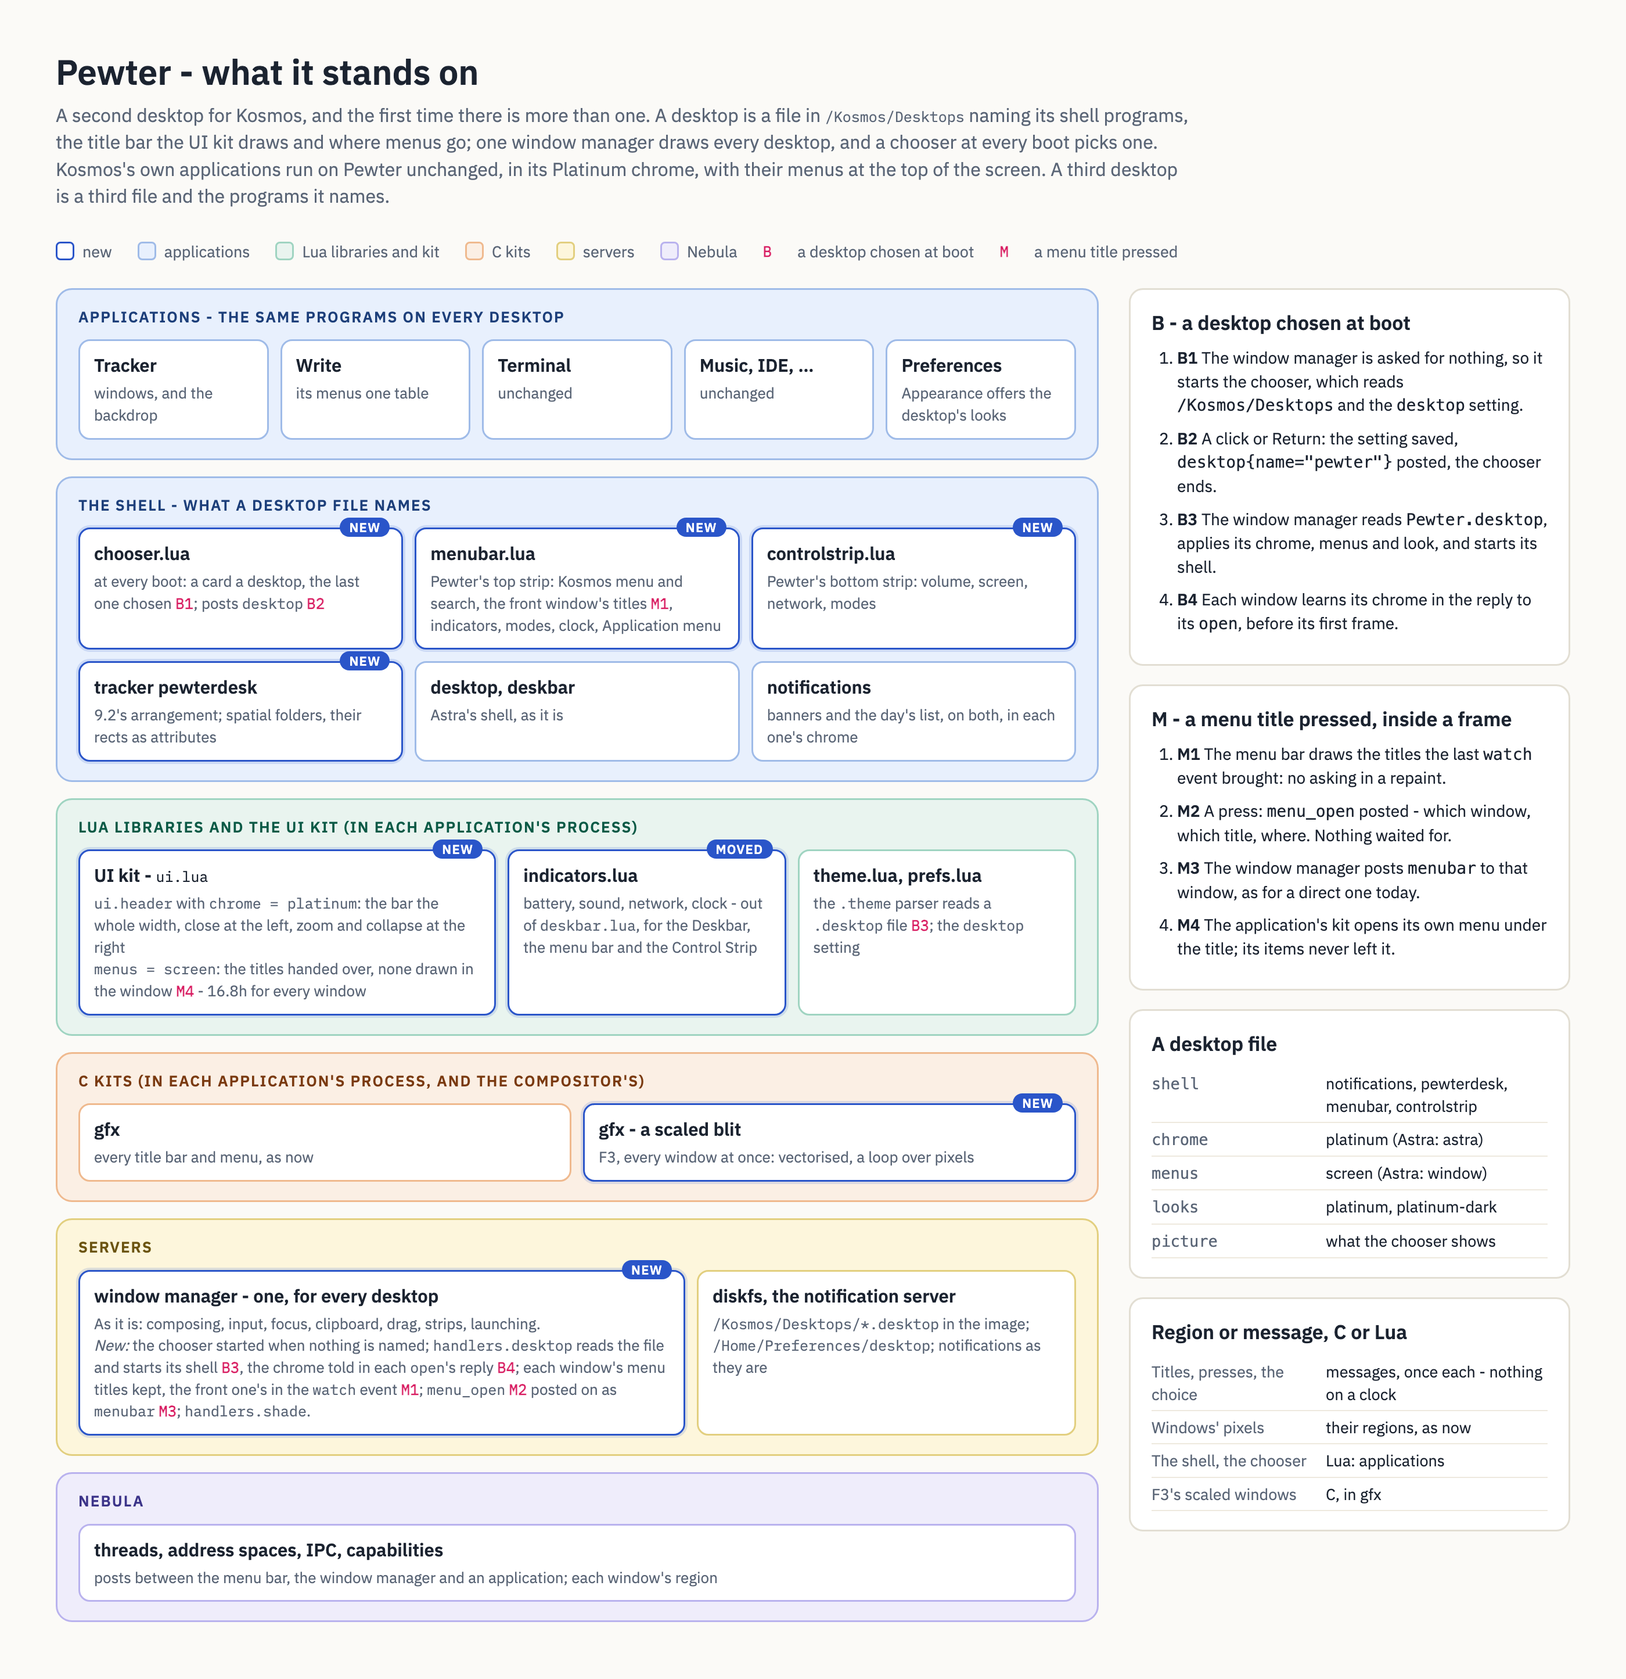
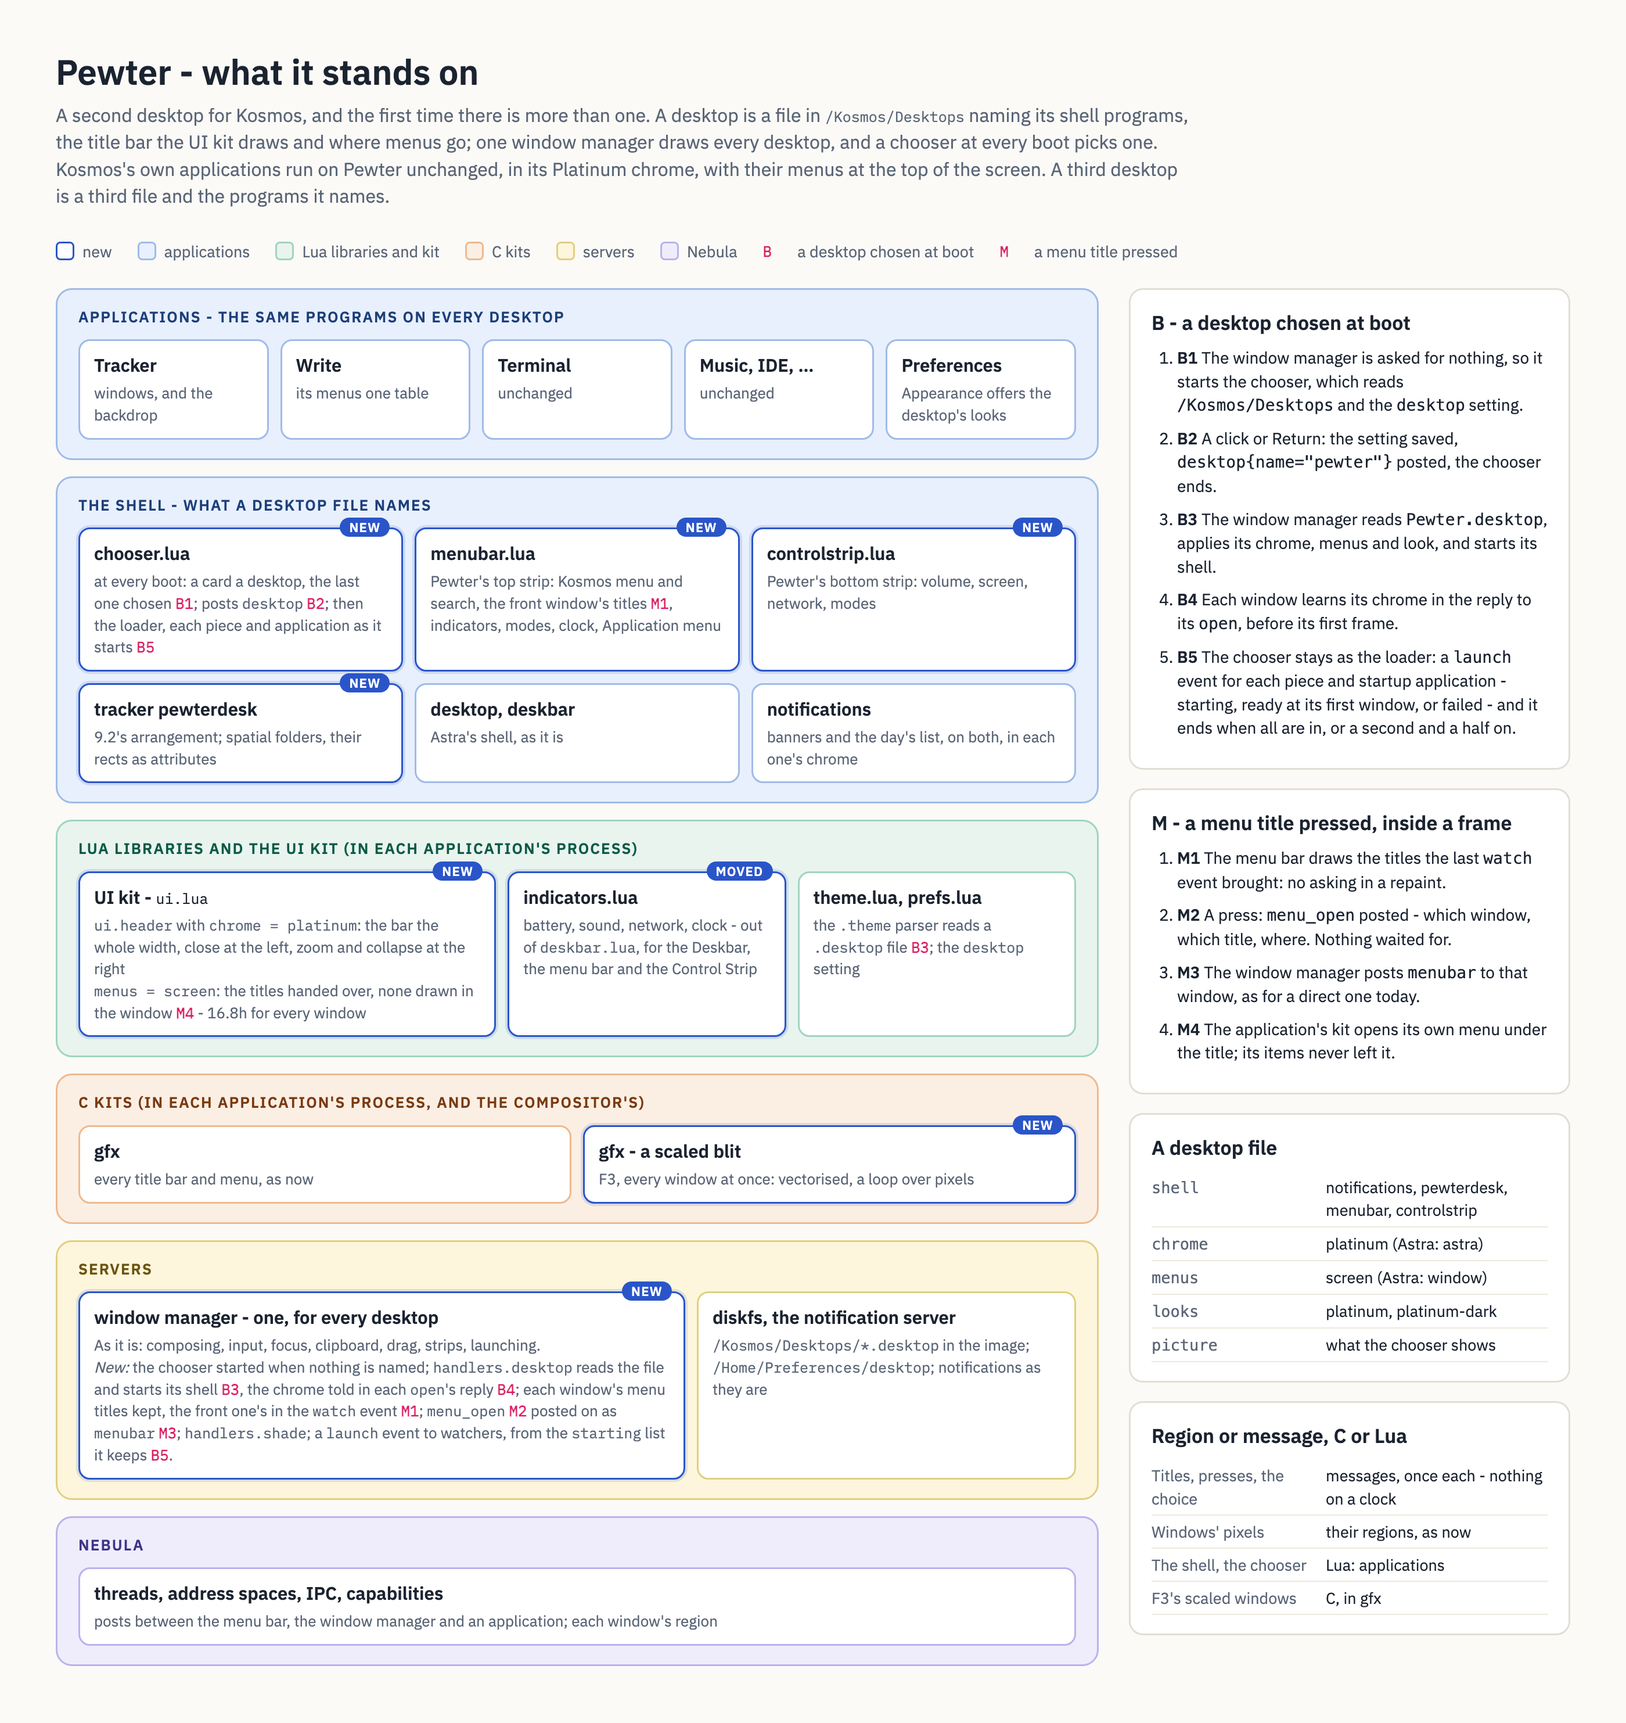
Pewter: a loader after the choice, each piece and application as it starts

diff --git a/docs/desktops.html b/docs/desktops.html
@@ -80,6 +80,30 @@
   .started .big { width: min(720px, 92vw); height: min(420px, 52vh); border-radius: 12px; overflow: hidden; position: relative; box-shadow: 0 30px 80px rgba(0,0,0,.5); }
   .started p { color: var(--dim); max-width: 560px; }
   .started button { background: #2a3248; color: var(--ink); border: 1px solid #44507a; border-radius: 8px; padding: 8px 16px; font: inherit; cursor: pointer; }
+  /* The loader: what the desktop is made of, each piece as it starts */
+  .loader { position: fixed; inset: 0; display: none; flex-direction: column; align-items: center; justify-content: center; gap: 22px; padding: 16px; }
+  .loader.on { display: flex; }
+  .loader .head h1 { font-size: 26px; }
+  .lpanel { width: min(560px, 100%); background: var(--card); border: 1.5px solid var(--card-line); border-radius: 16px; padding: 10px 8px; }
+  .lgroup { font: 600 11px "IBM Plex Mono", monospace; letter-spacing: .1em; text-transform: uppercase; color: var(--foot); padding: 8px 12px 4px; }
+  .lrow { display: grid; grid-template-columns: 26px 1fr auto 64px; align-items: center; gap: 12px; padding: 7px 12px; border-radius: 9px; }
+  .lrow .ic { width: 24px; height: 24px; border-radius: 6px; background: #2c3448; display: flex; align-items: center; justify-content: center; font: 600 12px "IBM Plex Sans"; color: var(--dim); }
+  .lrow b { font-weight: 500; display: block; }
+  .lrow small { color: var(--foot); font-size: 12.5px; }
+  .lrow .st { font: 12px "IBM Plex Mono", monospace; color: var(--foot); text-align: right; white-space: nowrap; }
+  .lrow .ms { font: 12px "IBM Plex Mono", monospace; color: var(--foot); text-align: right; font-variant-numeric: tabular-nums; }
+  .lrow.wait { opacity: .45; }
+  .lrow.run { background: rgba(127,176,255,.08); }
+  .lrow.run .st { color: var(--sel); }
+  .lrow.run .st::before { content: ""; display: inline-block; width: 9px; height: 9px; border: 2px solid var(--sel); border-right-color: transparent; border-radius: 50%; margin-right: 6px; vertical-align: -1px; animation: spin .8s linear infinite; }
+  .lrow.ok .st { color: #7fd69b; }
+  .lrow.bad .st { color: #ff8f84; }
+  .lrow.slow .st { color: #f0c36a; }
+  .lrow.bad small { color: #ff8f84; }
+  @keyframes spin { to { transform: rotate(360deg); } }
+  .lbar { width: min(560px, 100%); height: 4px; background: #262d3f; border-radius: 3px; overflow: hidden; }
+  .lbar i { display: block; height: 100%; width: 0; background: var(--sel); transition: width .2s; }
+  .lfoot { color: var(--foot); font-size: 13px; text-align: center; max-width: 560px; }
   .mockbar { position: fixed; left: 12px; bottom: 10px; z-index: 2; font: 11px "IBM Plex Mono", monospace; color: #565d73; display: flex; gap: 12px; align-items: center; }
   .mockbar label { cursor: pointer; display: flex; gap: 5px; align-items: center; }
   @media (max-height: 640px) { .mockbar { display: none; } .screen { gap: 18px; } }
@@ -100,6 +124,16 @@
   </div>
 </div>
 
+<div class="loader" id="loader" aria-live="polite">
+  <div class="head">
+    <div class="mark" id="lmark">Starting</div>
+    <h1 id="ltitle"></h1>
+  </div>
+  <div class="lpanel" id="lpanel"></div>
+  <div class="lbar"><i id="lbar"></i></div>
+  <div class="lfoot" id="lfoot"></div>
+</div>
+
 <div class="started" id="started">
   <div class="big" id="bigpic"></div>
   <h2 id="startedTitle" style="font-weight:500"></h2>
@@ -110,14 +144,18 @@
 <div class="mockbar">
   <span>mockup:</span>
   <label><input type="checkbox" id="third"> show how a third desktop would appear</label>
+  <label><input type="checkbox" id="fail"> a startup application fails</label>
+  <label><input type="checkbox" id="slowly"> one is slow</label>
 </div>
 
 <script>
 // What /Kosmos/Desktops would hold. Each card is one .desktop file:
 // its title, its line and its picture. Nothing here knows about Astra or Pewter by name.
 const DESKTOPS = [
-  { name: "astra", title: "Astra", says: "The Deskbar, the dock and the launcher pad. Kosmos as it is.", pic: astraPic },
-  { name: "pewter", title: "Pewter", says: "One menu bar for everything, in Platinum. Mac OS 9.2's manner, made for 2026.", pic: pewterPic },
+  { name: "astra", title: "Astra", says: "The Deskbar, the dock and the launcher pad. Kosmos as it is.", pic: astraPic,
+    shell: [["notifications", "Notifications", "the banners, and the day's list", 14], ["desktop", "Desktop", "Tracker, drawing your files behind everything", 190], ["deskbar", "Deskbar", "the bar: the menu, what is running, the indicators", 120]] },
+  { name: "pewter", title: "Pewter", says: "One menu bar for everything, in Platinum. Mac OS 9.2's manner, made for 2026.", pic: pewterPic,
+    shell: [["notifications", "Notifications", "the banners, and the day's list", 14], ["pewterdesk", "Desktop", "Tracker in 9.2's arrangement, spatial folders", 210], ["menubar", "Menu bar", "the Kosmos menu, the menus in front, the clock", 95], ["controlstrip", "Control Strip", "volume, the screen, the network, the modes", 60]] },
 ];
 const THIRD = { name: "next", title: "A third", says: "Another file in /Kosmos/Desktops, and the programs it names.", later: true };
 
@@ -164,15 +202,67 @@ function render() {
   });
 }
 
+// What opens with every desktop: the Startup page's ticks (startup.lua), the same on both.
+const STARTUP = [["tracker", "Tracker", "a window on /Home", 160], ["procs", "Processes", "what is running", 110], ["logview", "Log View", "what the machine said", 130]];
+
 function start() {
   const d = list()[sel];
   if (!d || d.later) return;
   last = d.name;
   try { localStorage.setItem("kosmos-desktop", last); } catch (e) {}
   document.getElementById("chooser").classList.add("gone");
+  load(d);
+}
+
+// The loader. In Kosmos this is the chooser itself, kept over the screen
+// after the choice and told by the window manager how each launch goes.
+function load(d) {
+  const L = document.getElementById("loader");
+  document.getElementById("ltitle").textContent = d.title;
+  const rows = [...d.shell.map(r => ({ g: "The desktop", r })), ...STARTUP.map(r => ({ g: "Opening with it", r }))];
+  const fail = document.getElementById("fail").checked, slowly = document.getElementById("slowly").checked;
+  let html = "", g = "";
+  rows.forEach((x, i) => {
+    if (x.g !== g) { g = x.g; html += `<div class="lgroup">${g}</div>`; }
+    html += `<div class="lrow wait" id="lr${i}"><span class="ic">${x.r[1][0]}</span><div><b>${x.r[1]}</b><small>${x.r[2]}</small></div><span class="st">waiting</span><span class="ms"></span></div>`;
+  });
+  document.getElementById("lpanel").innerHTML = html;
+  document.getElementById("lfoot").textContent = "Each piece is ready when its first window is drawn. Slowed here so it can be read.";
+  setTimeout(() => L.classList.add("on"), 250);
+  let i = 0;
+  const bar = document.getElementById("lbar");
+  const next = () => {
+    if (i >= rows.length) {
+      document.getElementById("lmark").textContent = "Ready";
+      setTimeout(() => { L.classList.remove("on"); shown(d); }, 700);
+      return;
+    }
+    const el = document.getElementById("lr" + i), x = rows[i];
+    el.className = "lrow run"; el.querySelector(".st").textContent = "starting";
+    const isFail = fail && x.r[0] === "procs", isSlow = slowly && x.r[0] === "logview";
+    let ms = Math.round(x.r[3] * (0.85 + Math.random() * 0.3));
+    if (isSlow) ms = 5000;
+    const shownMs = isSlow ? 1900 : Math.min(ms, 600) * 2.2;
+    if (isSlow) setTimeout(() => { el.querySelector(".st").textContent = "still starting"; }, 1000);
+    setTimeout(() => {
+      if (isFail) { el.className = "lrow bad"; el.querySelector(".st").textContent = "did not start"; el.querySelector("small").textContent = "no such program: /Kosmos/Apps/procs.lua"; }
+      else if (isSlow) { el.className = "lrow slow"; el.querySelector(".st").textContent = "left starting"; el.querySelector("small").textContent = "the desktop does not wait for it; it opens when it is ready"; }
+      else { el.className = "lrow ok"; el.querySelector(".st").textContent = "ready"; }
+      el.querySelector(".ms").textContent = isFail ? "" : isSlow ? "> 1.5 s" : ms + " ms";
+      i++; bar.style.width = (100 * i / rows.length) + "%";
+      if (isFail || isSlow) document.getElementById("lfoot").textContent = isFail ? "One did not start. The desktop opens anyway, and the log says why." : "One is slow. The desktop opens without it.";
+      next();
+    }, shownMs);
+  };
+  document.getElementById("lmark").textContent = "Starting";
+  bar.style.width = "0";
+  setTimeout(next, 500);
+}
+
+function shown(d) {
   const s = document.getElementById("started");
   document.getElementById("bigpic").innerHTML = d.pic().replace('class="pic', 'style="position:absolute;inset:0;height:auto;transform:scale(2.4);transform-origin:0 0;width:41.6%" class="pic');
-  document.getElementById("startedTitle").textContent = `${d.title} is starting`;
+  document.getElementById("startedTitle").textContent = `${d.title} is running`;
   setTimeout(() => s.classList.add("on"), 300);
 }
 

diff --git a/docs/pewter-architecture.html b/docs/pewter-architecture.html
@@ -95,7 +95,7 @@
     </div>
     <div class="layer app"><h2>The shell - what a desktop file names</h2>
       <div class="row" style="grid-template-columns:1fr 1fr 1fr">
-        <div class="box new"><span class="tag">NEW</span><b>chooser.lua</b><p>at every boot: a card a desktop, the last one chosen <span class="f">B1</span>; posts <code>desktop</code> <span class="f">B2</span></p></div>
+        <div class="box new"><span class="tag">NEW</span><b>chooser.lua</b><p>at every boot: a card a desktop, the last one chosen <span class="f">B1</span>; posts <code>desktop</code> <span class="f">B2</span>; then the loader, each piece and application as it starts <span class="f">B5</span></p></div>
         <div class="box new"><span class="tag">NEW</span><b>menubar.lua</b><p>Pewter's top strip: Kosmos menu and search, the front window's titles <span class="f">M1</span>, indicators, modes, clock, Application menu</p></div>
         <div class="box new"><span class="tag">NEW</span><b>controlstrip.lua</b><p>Pewter's bottom strip: volume, screen, network, modes</p></div>
       </div>
@@ -120,7 +120,7 @@
     </div>
     <div class="layer srv"><h2>Servers</h2>
       <div class="row" style="grid-template-columns:1.6fr 1fr">
-        <div class="box new"><span class="tag">NEW</span><b>window manager - one, for every desktop</b><p>As it is: composing, input, focus, clipboard, drag, strips, launching.<br><i>New:</i> the chooser started when nothing is named; <code>handlers.desktop</code> reads the file and starts its shell <span class="f">B3</span>, the chrome told in each <code>open</code>'s reply <span class="f">B4</span>; each window's menu titles kept, the front one's in the <code>watch</code> event <span class="f">M1</span>; <code>menu_open</code> <span class="f">M2</span> posted on as <code>menubar</code> <span class="f">M3</span>; <code>handlers.shade</code>.</p></div>
+        <div class="box new"><span class="tag">NEW</span><b>window manager - one, for every desktop</b><p>As it is: composing, input, focus, clipboard, drag, strips, launching.<br><i>New:</i> the chooser started when nothing is named; <code>handlers.desktop</code> reads the file and starts its shell <span class="f">B3</span>, the chrome told in each <code>open</code>'s reply <span class="f">B4</span>; each window's menu titles kept, the front one's in the <code>watch</code> event <span class="f">M1</span>; <code>menu_open</code> <span class="f">M2</span> posted on as <code>menubar</code> <span class="f">M3</span>; <code>handlers.shade</code>; a <code>launch</code> event to watchers, from the <code>starting</code> list it keeps <span class="f">B5</span>.</p></div>
         <div class="box"><b>diskfs, the notification server</b><p><code>/Kosmos/Desktops/*.desktop</code> in the image; <code>/Home/Preferences/desktop</code>; notifications as they are</p></div>
       </div>
     </div>
@@ -135,6 +135,7 @@
         <li><b>B2</b> A click or Return: the setting saved, <code>desktop{name="pewter"}</code> posted, the chooser ends.</li>
         <li><b>B3</b> The window manager reads <code>Pewter.desktop</code>, applies its chrome, menus and look, and starts its shell.</li>
         <li><b>B4</b> Each window learns its chrome in the reply to its <code>open</code>, before its first frame.</li>
+        <li><b>B5</b> The chooser stays as the loader: a <code>launch</code> event for each piece and startup application - starting, ready at its first window, or failed - and it ends when all are in, or a second and a half on.</li>
       </ol>
     </div>
     <div class="card"><h3>M - a menu title pressed, inside a frame</h3>

diff --git a/docs/pewter.md b/docs/pewter.md
@@ -31,6 +31,18 @@ nothing else.
   is already chosen. A click, or the arrow keys and Return, starts it.
 - **See every desktop the system has**, the ones that ship and any added
   later, without the chooser being changed to know about them.
+- **Watch it start.** Once a desktop is chosen, the chooser becomes a
+  loader (Diego, 7 November: "a loader that shows what component and app
+  is being loaded when selecting the desktop"). It lists the pieces of
+  that desktop - for Pewter the banners, the desktop, the menu bar and the
+  Control Strip - and then the applications the Startup page opens with
+  it, each with what it is, its state - waiting, starting, ready, did not
+  start - and how long it took. A bar under the list fills as they come
+  up, and when they have, the loader goes and the desktop is there.
+- **Not be held by one that fails or is slow.** One that does not start
+  says why, in red, and the desktop opens without it; one still starting
+  after a second and a half is left starting, says so, and opens when it
+  is ready. The loader never waits for longer than that on anything.
 - **Leave without choosing**: Restart and Shut Down at the foot of the
   chooser, as on any desktop.
 
@@ -235,7 +247,20 @@ a desktop*). A test that wants a desktop names it: `wm desktop:pewter`.
    to the window manager, and ends.
 4. The window manager reads the file, applies its chrome, its menus and its
    look - before the first window of that desktop opens, so nothing is
-   drawn twice - and starts its shell.
+   drawn twice - and starts its shell, then what the Startup page opens
+   (`startup.lua`), which the Deskbar opens today.
+5. **The chooser stays, as the loader**, a window over everything, and the
+   window manager tells it how each launch goes. It already keeps that for
+   the Deskbar - `starting`, each launch's program, its process and why it
+   failed (`wm.lua`, `finish_launch`) - and the new part is saying it to a
+   watcher: a `launch` event, `{ program, state, ms }`, posted when a
+   launch starts, when it fails, and when the program's first window is
+   committed. A piece that opens no window at start - the banners - is
+   ready when its process has started.
+6. When every piece is ready or has failed, or a second and a half has
+   passed for the last one, the loader ends, and the desktop is under it.
+   It draws what it has been told and never asks, so a launch that hangs
+   cannot hang it - *nothing on the desktop waits on a server*.
 
 **Switch Desktop…** posts `desktop{ name = false }`. The window manager
 asks every window to close, the way Restart does, waits for the shell to
@@ -286,10 +311,12 @@ Each is built, held by a test that stays, and lived with before the next.
 
 - **P1 - Desktops as files, and the chooser.** `Astra.desktop` describes
   what runs today; `chooser.lua`; `handlers.desktop`; the `desktop`
-  setting; Switch Desktop… in the Deskbar. Pewter's file exists and starts
-  Astra's shell, so the choice can be made before Pewter is drawn. Test: a
-  suite boots to the chooser, picks each desktop and checks its shell is
-  running; the gate's suites, which name what they start, unchanged.
+  setting; Switch Desktop… in the Deskbar. The loader, and the window
+  manager's `launch` events. Pewter's file exists and starts Astra's
+  shell, so the choice can be made before Pewter is drawn. Test: a suite
+  boots to the chooser, picks each desktop and checks its shell is
+  running, the loader having listed each piece as ready; a startup item
+  that names no program shown as failed, and the desktop opened anyway; the gate's suites, which name what they start, unchanged.
 - **P2 - Platinum's title bar.** `chrome = platinum` in the kit; collapse
   (`handlers.shade`). Test: every application in the gallery opened under
   Pewter, its title bar's boxes found where Platinum puts them.

diff --git a/docs/roadmap.md b/docs/roadmap.md
@@ -419,7 +419,12 @@ boot with the last one chosen, and Kosmos's own applications in Pewter's
 title bar with their menus at the top. Designed the same day:
 `docs/pewter.md` (features, architecture, steps P1-P6),
 `docs/pewter-architecture.png` and the chooser, `docs/desktops.html`. P1,
-desktops as files and the chooser, is first.
+desktops as files and the chooser, is first. **And a loader after the
+choice** - Diego, the same day: "can we add a loader that shows what
+component and app is being loaded when selecting the desktop": the
+chooser stays over the screen and lists the desktop's pieces and the
+Startup page's applications as each starts, with its state and time; one
+that fails or is slow does not hold the desktop. Part of P1.
 
 **Maps, finished, and dragging made smooth** - Diego, 10 October 2026:
 "the maps app needs to be finished, also its slow to drag the map around, it
